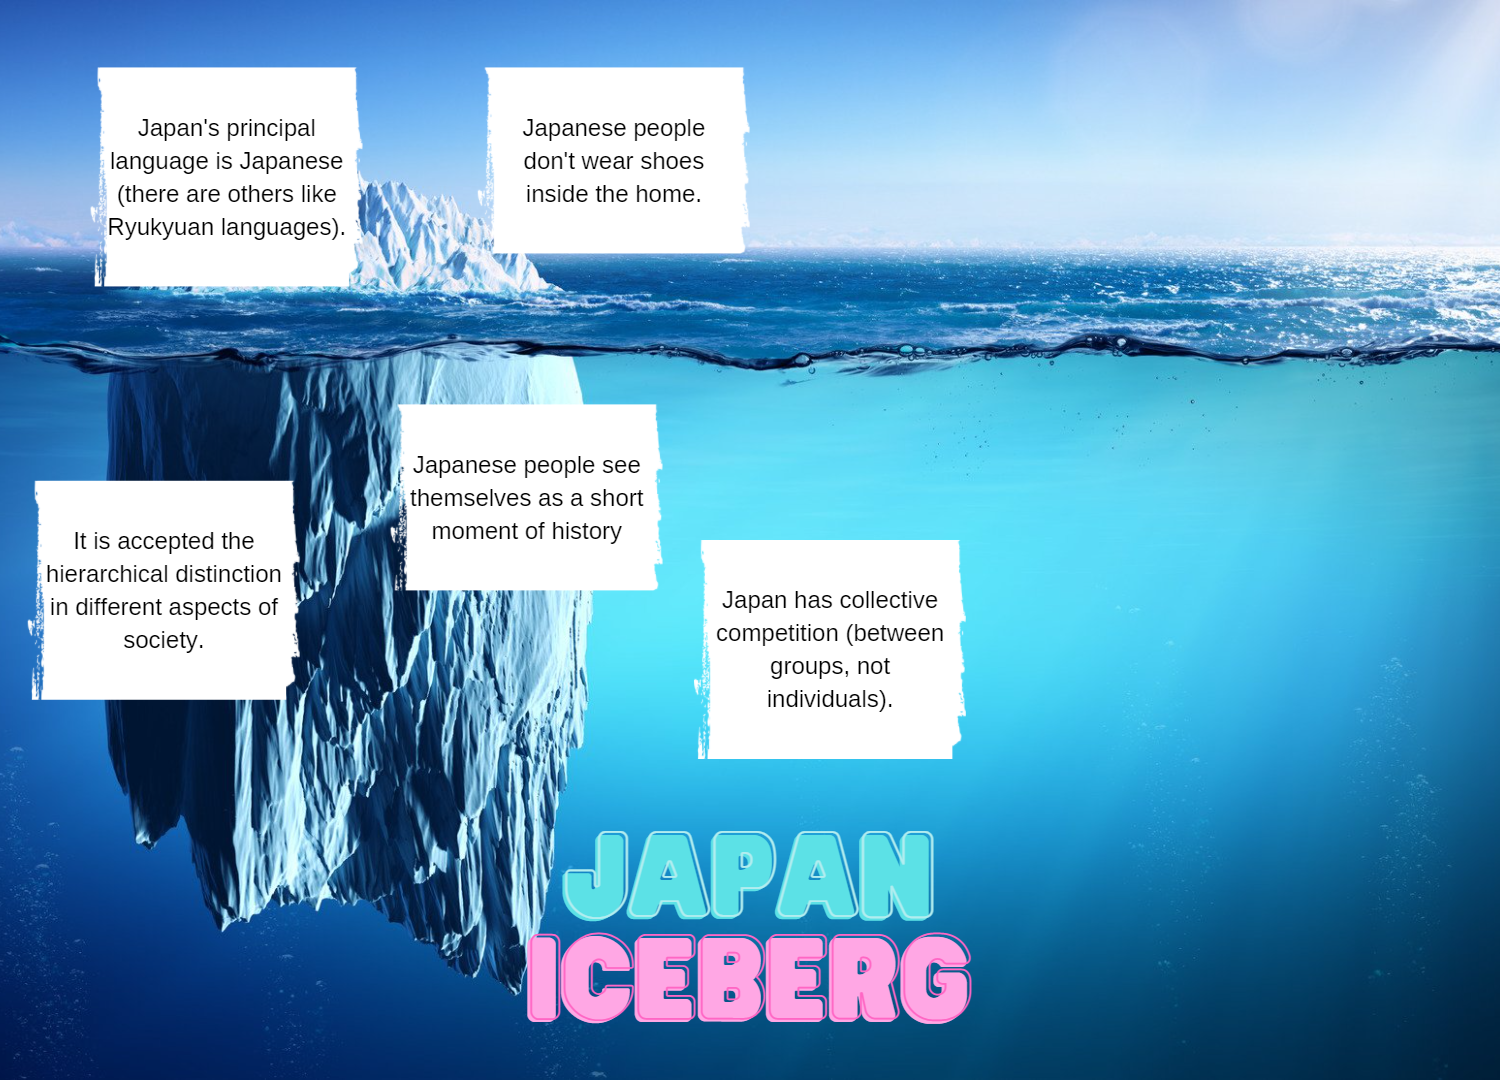
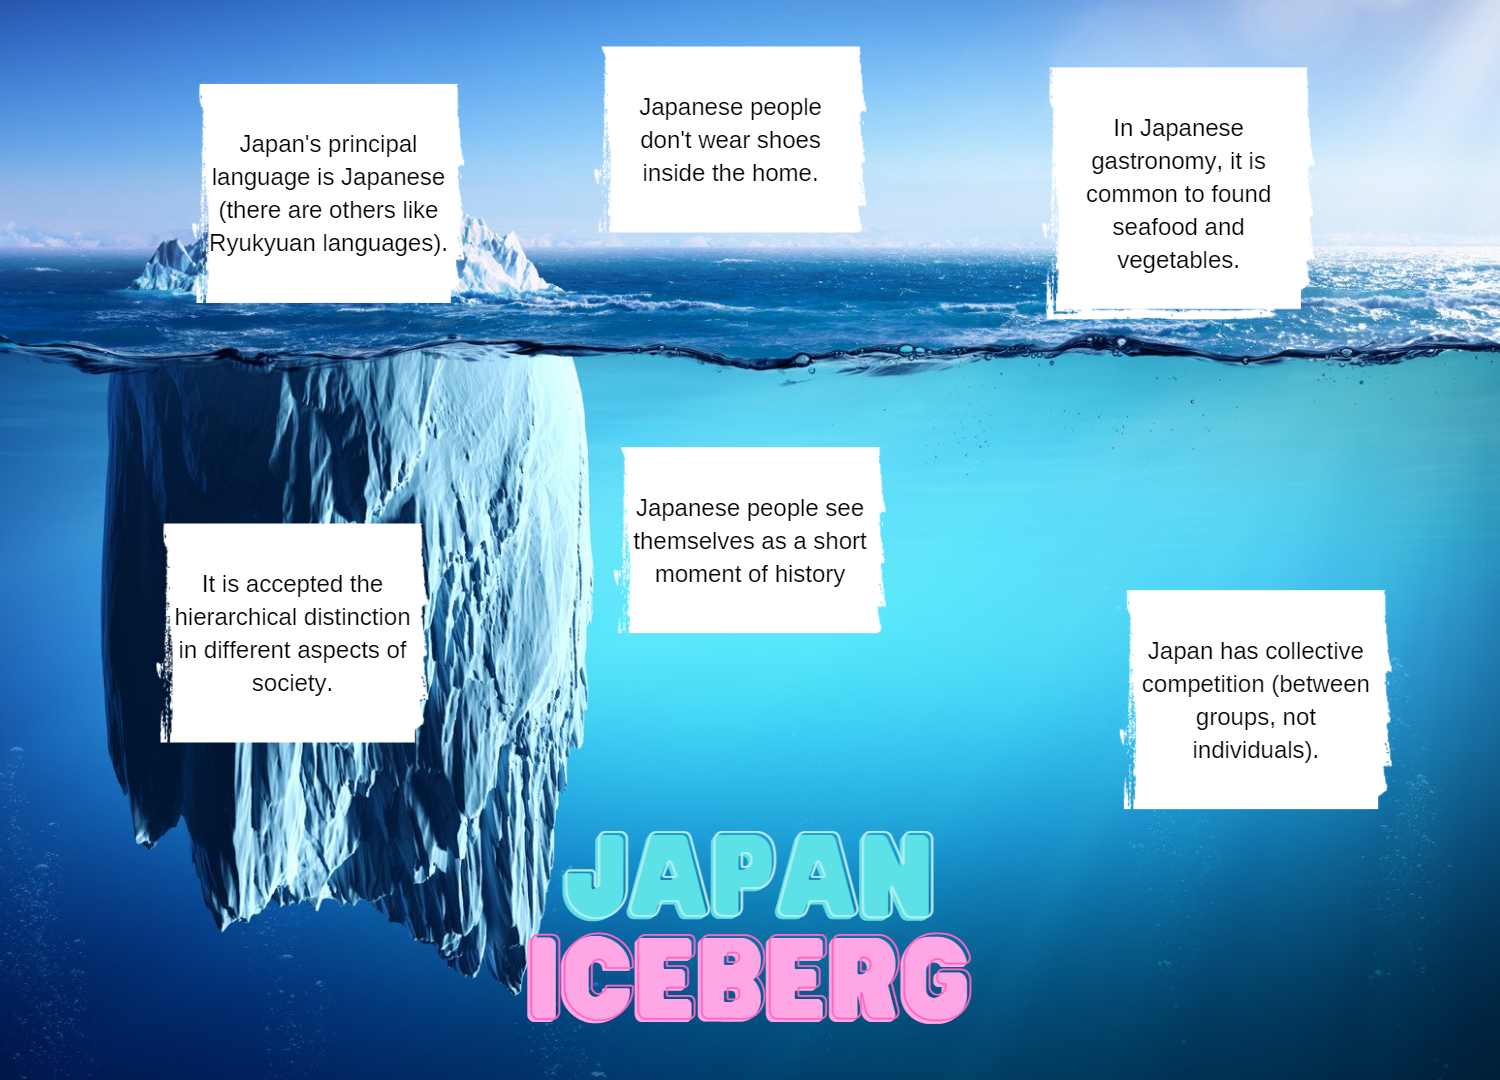
Entry 3 >> Sterotypes

diff --git a/_posts/2021-09-08-colombia-and-japan.md b/_posts/2021-09-08-colombia-and-japan.md
@@ -1,8 +1,13 @@
 ---
 title: "Colombia and Japan: comparing two cultures through the Hofstede model"
 layout: post
-banner: hofstede-model.png
+banner: colombia-japan.png
 ---
 # Colombia and Japan: comparing two cultures through the Hofstede model
 
 Colombia and Japan are geographically distant; that's why they have multiple differences and, nevertheless, similarities. Both countries are collectivistic and have a high score in power distance (Colombia: 67, Japan: 54); This suggests that their nature unveils a hierarchical/class distinction. They also have a high score in masculinity (Colombia: 64, Japan: 95). But, while Japan's competitiveness focuses on groups, Colombia's approach is between social classes. These countries tend to avoid uncertainty (Colombia: 80, Japan: 92). However, they differ in their Long-term orientation (Colombia: 13, Japan: 88). On one side, Japanese people see themselves as a short moment of history. Therefore they must work for the future. On the other, Colombia has a low long-term orientation, investing its strength in protecting traditions instead of building the future.
+
+![Hofstede Model]({{ site.baseurl }}/assets/img/hofstede-model.png)
+
+## Reference
+Hofstede insights. What about Japan? Available in <https://www.hofstede-insights.com/country-comparison/japan/>

diff --git a/_posts/2021-09-14-stereotypes.md b/_posts/2021-09-14-stereotypes.md
@@ -1,6 +1,10 @@
 ---
 title: "Stereotypes: the danger of a single story"
 layout: post
+banner: japan-temple.png
 ---
 
 # Stereotypes: the danger of a single story
+When I was a kid, one of the mains forms of information was television; this media didn't portray a good image of "China" In the first place, "they all are Chinese" was a common way of thinking. That's why Japan, China, Taiwan, Korea, and other Asia countries fall into a bunch of stereotypes caused by ignorance. I couldn't avoid believing in them. But then, the internet joined the game. This tool allowed me to "meet" the culture through an experience of people and reading about their history, stories, mangas, and watching their movies. Japan's history, customs, and art are specialing fascinating and immersive. Writing this blog, I get to know more about the top and bottom of these iceberg called Japan.
+
+![ukiyo-e]({{ site.baseurl }}/assets/img/ukiyo-e.jpg)
